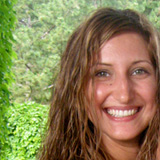
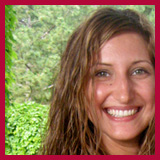
Adjusted images to have red borders

Changed region(s): [[0.0, 0.0, 1.0, 1.0]]

diff --git a/public/stylesheets/main.less b/public/stylesheets/main.less
@@ -190,6 +190,7 @@ article {
 
   h1 {
     font-size:1.5em; /* 24 px / 16 px */
+    line-height:1.5em;
     margin-bottom:1em;
     color:@themeColour;
 
@@ -414,27 +415,28 @@ ul.error {
 
 .tiles li img {
   display:block;
-  margin-left:auto;
-  margin-right:auto;
-  border:solid 5px @themeColour;
+  /*border:solid 5px @themeColour;*/
   margin-bottom:5px;
+
+margin-left:auto;
+margin-right:auto;
 }
 
 .tiles li span {
   text-align:center;
   display:block;
-line-height:1em;
+  line-height:1em;
 }
 
 .tiles li span em {
   font-style:none;
   display:block;
-font-size:0.75em;
+  font-size:0.75em;
 }
 
 .tiles img {
-  max-width:100%;
-  width:auto;
+  /*max-width:100%;*/
+  /*width:auto;*/
 }
 
 .tiles li {

diff --git a/public/stylesheets/main.css b/public/stylesheets/main.css
@@ -145,6 +145,7 @@ article h1 {
   font-size: 1.5em;
   /* 24 px / 16 px */
 
+  line-height: 1.5em;
   margin-bottom: 1em;
   color: #b20838;
 }
@@ -327,10 +328,11 @@ ul.error {
 }
 .tiles li img {
   display: block;
+  /*border:solid 5px @themeColour;*/
+
+  margin-bottom: 5px;
   margin-left: auto;
   margin-right: auto;
-  border: solid 5px #b20838;
-  margin-bottom: 5px;
 }
 .tiles li span {
   text-align: center;
@@ -343,8 +345,10 @@ ul.error {
   font-size: 0.75em;
 }
 .tiles img {
-  max-width: 100%;
-  width: auto;
+  /*max-width:100%;*/
+
+  /*width:auto;*/
+
 }
 .tiles li {
   float: left;
